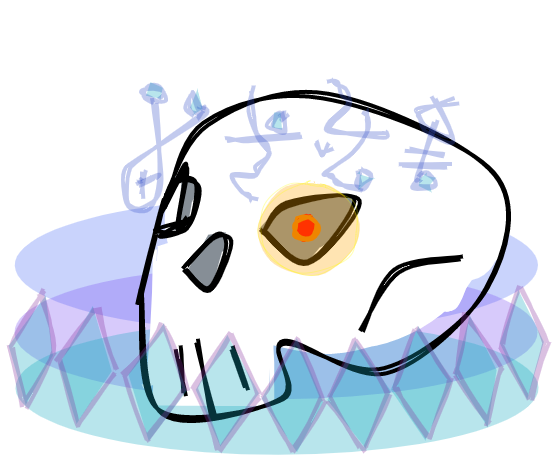
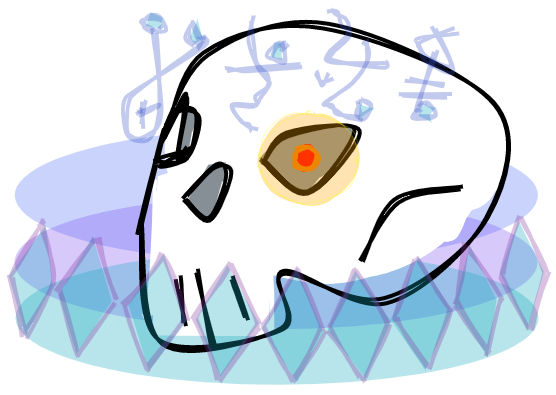
Add Dirt & Dark Skull - add event listeners to change the image of the skull for buttons - update dark-skull asset

diff --git a/js/app.js b/js/app.js
@@ -220,3 +220,31 @@ document.getElementById("water").addEventListener("mouseleave", () => {
         document.querySelector("#skull").src = "./assets/skull.png"
     }
 })
+
+document.getElementById("fertalize").addEventListener("mousedown", () => {
+    if (skeleton.level === 1){
+        document.querySelector("#skull").src = "./assets/dirt-skull.png"
+    } else if (skeleton.level === 2) {
+        
+    }
+})
+
+document.getElementById("fertalize").addEventListener("mouseleave", () => {
+    if (skeleton.level === 1) {
+        document.querySelector("#skull").src = "./assets/skull.png"
+    }
+})
+
+document.getElementById("dark-energy").addEventListener("mousedown", () => {
+    if (skeleton.level === 1){
+        document.querySelector("#skull").src = "./assets/dark-skull.png"
+    } else if (skeleton.level === 2) {
+        
+    }
+})
+
+document.getElementById("dark-energy").addEventListener("mouseleave", () => {
+    if (skeleton.level === 1) {
+        document.querySelector("#skull").src = "./assets/skull.png"
+    }
+})
